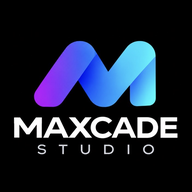
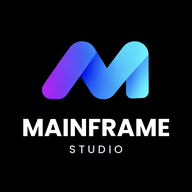
Rebrand to Mainframe
Claude-Session: https://claude.ai/code/session_016a3u7HTdyqHaY1toE3JYmD

diff --git a/index.html b/index.html
@@ -9,10 +9,10 @@
 <link rel="manifest" href="/manifest.json">
 <meta name="apple-mobile-web-app-capable" content="yes">
 <meta name="mobile-web-app-capable" content="yes">
-<meta name="apple-mobile-web-app-title" content="Maxcade">
+<meta name="apple-mobile-web-app-title" content="Mainframe">
 <meta name="theme-color" content="#ffffff">
-<meta name="description" content="Maxcade Games is an independent studio making free games and apps for the web.">
-<title>Maxcade Games</title>
+<meta name="description" content="Mainframe is an independent studio making free games and apps for the web.">
+<title>Mainframe</title>
 <link href="https://fonts.googleapis.com/css2?family=Inter:wght@400;500;600;700;800&display=swap" rel="stylesheet">
 <style>
 *{box-sizing:border-box;margin:0;padding:0}
@@ -197,7 +197,7 @@ footer{padding:64px 0 48px;border-top:1px solid var(--line)}
 <body>
 
 <nav id="nav"><div class="wrap">
-  <a href="#top" class="brand"><svg viewBox="0 0 26 26"><rect width="26" height="26" rx="7" fill="#111"/><path d="M7 18V8l6 6 6-6v10" stroke="#fff" stroke-width="2.2" fill="none" stroke-linecap="round" stroke-linejoin="round"/></svg>Maxcade Games</a>
+  <a href="#top" class="brand"><svg viewBox="0 0 26 26"><rect width="26" height="26" rx="7" fill="#111"/><path d="M7 18V8l6 6 6-6v10" stroke="#fff" stroke-width="2.2" fill="none" stroke-linecap="round" stroke-linejoin="round"/></svg>Mainframe</a>
   <div class="menu"><a href="#games">Games</a><a href="#studio">Studio</a><a href="#careers">Careers</a></div>
   <a class="btn btn-dark nav-cta" style="height:38px;padding:0 18px;font-size:14px" href="https://maxaboiinyc5-wq.github.io/game-crate/">Play Game Crate</a>
   <button class="burger" id="burger" aria-label="Menu"><span></span></button>
@@ -210,7 +210,7 @@ footer{padding:64px 0 48px;border-top:1px solid var(--line)}
 <header class="wrap hero" id="top">
   <div class="kicker rv">Independent game studio</div>
   <h1 class="rv">We make games<br><span>and apps</span><br>for the web.</h1>
-  <p class="rv">Maxcade Games is a small indie studio building free things you can play and use right in your browser, on any phone or computer.</p>
+  <p class="rv">Mainframe is a small indie studio building free things you can play and use right in your browser, on any phone or computer.</p>
   <div class="row rv">
     <a class="btn btn-dark" href="#games">Explore our work</a>
     <a class="btn btn-light" href="#studio">About the studio</a>
@@ -225,7 +225,7 @@ footer{padding:64px 0 48px;border-top:1px solid var(--line)}
 <section class="alt" id="games"><div class="wrap">
   <div class="shead rv">
     <div><div class="kicker">Flagship</div><h2>Game Crate</h2></div>
-    <p>Our game console. A whole library of Maxcade games on one cartridge shelf.</p>
+    <p>Our game console. A whole library of Mainframe games on one cartridge shelf.</p>
   </div>
   <div class="flag rv">
     <div class="art" id="flag-art"></div>
@@ -238,7 +238,7 @@ footer{padding:64px 0 48px;border-top:1px solid var(--line)}
   </div>
 
   <div class="shead rv" style="margin-top:96px">
-    <div><div class="kicker">Catalog</div><h2>More from Maxcade</h2></div>
+    <div><div class="kicker">Catalog</div><h2>More from Mainframe</h2></div>
     <div class="tabs" id="tabs"></div>
   </div>
   <div class="grid" id="grid"></div>
@@ -248,7 +248,7 @@ footer{padding:64px 0 48px;border-top:1px solid var(--line)}
   <div class="studio">
     <div class="rv">
       <div class="kicker">The studio</div>
-      <p class="big">Maxcade Games started with one idea: games should be fun first. <span>No downloads, no paywalls, no waiting. Every project is playtested until it feels right.</span></p>
+      <p class="big">Mainframe started with one idea: games should be fun first. <span>No downloads, no paywalls, no waiting. Every project is playtested until it feels right.</span></p>
     </div>
     <div class="values rv">
       <div class="val"><div class="n">01</div><h4>Fun comes first</h4><p>If it isn't fun to play, it doesn't ship.</p></div>
@@ -260,7 +260,7 @@ footer{padding:64px 0 48px;border-top:1px solid var(--line)}
 
   <div class="shead rv" style="margin-top:96px">
     <div><div class="kicker">People</div><h2>Leadership</h2></div>
-    <p>The leadership behind every Maxcade title.</p>
+    <p>The leadership behind every Mainframe title.</p>
   </div>
   <div class="team">
     <div class="person rv"><div class="ava" style="background:#111"><svg viewBox="0 0 24 24" width="24" height="24" fill="none" stroke="#fff" stroke-width="2" stroke-linecap="round" stroke-linejoin="round"><circle cx="12" cy="12" r="9"/><path d="M15.5 8.5l-2 5-5 2 2-5z"/></svg></div><h4>Founder &amp; President</h4><div class="role">Executive Leadership</div><p>Sets the direction of the studio and leads quality assurance. Every release is reviewed and approved before launch.</p></div>
@@ -274,7 +274,7 @@ footer{padding:64px 0 48px;border-top:1px solid var(--line)}
     <div>
       <div class="kicker" style="color:#8b8bff">Careers</div>
       <h2>Make games<br>with us.</h2>
-      <p>Maxcade Games is growing. We are looking for talented people who want to help build the next generation of browser games.</p>
+      <p>Mainframe is growing. We are looking for talented people who want to help build the next generation of browser games.</p>
     </div>
   </div>
 </div></section>
@@ -282,13 +282,13 @@ footer{padding:64px 0 48px;border-top:1px solid var(--line)}
 <footer><div class="wrap">
   <div class="fgrid">
     <div>
-      <a href="#top" class="brand"><svg viewBox="0 0 26 26" width="26" height="26"><rect width="26" height="26" rx="7" fill="#111"/><path d="M7 18V8l6 6 6-6v10" stroke="#fff" stroke-width="2.2" fill="none" stroke-linecap="round" stroke-linejoin="round"/></svg>Maxcade Games</a>
+      <a href="#top" class="brand"><svg viewBox="0 0 26 26" width="26" height="26"><rect width="26" height="26" rx="7" fill="#111"/><path d="M7 18V8l6 6 6-6v10" stroke="#fff" stroke-width="2.2" fill="none" stroke-linecap="round" stroke-linejoin="round"/></svg>Mainframe</a>
       <p>Free games and apps for the web.</p>
     </div>
     <div><h5>Explore</h5><ul><li><a href="https://maxaboiinyc5-wq.github.io/game-crate/">Game Crate</a></li><li><a href="#games">Catalog</a></li><li></li></ul></div>
     <div><h5>Studio</h5><ul><li><a href="#studio">About</a></li><li><a href="#studio">Leadership</a></li><li><a href="#careers">Careers</a></li></ul></div>
   </div>
-  <div class="legal"><span>© 2026 Maxcade Games. All rights reserved.</span><span>maxcadestudios.github.io</span></div>
+  <div class="legal"><span>© 2026 Mainframe. All rights reserved.</span><span>maxcadestudios.github.io</span></div>
 </div></footer>
 
 <div class="modal" id="modal"><div class="sheet" style="position:relative">

diff --git a/target-blast/index.html b/target-blast/index.html
@@ -149,7 +149,7 @@ const GC=[
 ['💻','GAME CRATE','works on phones AND computers now.'],
 ['⏳','COMING SOON to GAME CRATE','new games are on the way. check the Coming soon shelf.']
 ];
-const GCF=['100% free','new games added all the time','works on phone + computer','no download needed','made by Maxcade developers','search + filters','NEW and recently updated tags','home screen app ready'];
+const GCF=['100% free','new games added all the time','works on phone + computer','no download needed','made by Mainframe developers','search + filters','NEW and recently updated tags','home screen app ready'];
 const GCR=['"best crate ever" - a goat','"i played for 6 hours" - Kyle','"better than a PS5 (it is free)" - Dave','"my brother wont stop playing" - Max','"10/10 crate" - Sue','"the menu music slaps" - Ray'];
 const AFEAT=['100% real (not real)','approved by 3 ducks','works sometimes','now in beige','comes with a sticker','no batteries needed (it needs batteries)','dishwasher scared','made in a garage','faster than a snail','smells like Tuesday','glow in the dark (only in daylight)','waterproof-ish','scientists hate it','your mom will say no','includes free air','limited edition (we made 9 million)'];
 const AREV=['"my dog likes it" - Dave','"it arrived. thats all." - Sue','"i bought 40" - Kyle','"5 stars, it exists" - Bob','"my grandma cried" - Tim','"i dont know why i bought this" - Jen','"better than nothing" - Ray','"it ate my homework" - Max','"10/10 would get scammed again" - Lou'];
@@ -179,7 +179,7 @@ function showSite(a,after){const gc=!!a[5];let cart=0;
  '<h2>✨ FEATURES</h2>'+feats.map(f=>'<div class="ft">✅ '+f+'</div>').join('')+
  '<h2>⭐ REVIEWS</h2>'+revs.map(r=>'<div class="rv"><div>⭐⭐⭐⭐⭐</div>'+r+'</div>').join('')+
  '<h2>❓ FAQ</h2>'+faq.map(q=>'<div class="ft"><b>'+q[0]+'</b><br>'+q[1]+'</div>').join('')+
- '<div class="foot">© 2026 '+(gc?'Maxcade developers':'Imaginary Inc.')+' · '+url+'<br>'+(gc?'':'this website is not real. nothing here is real.')+'</div></div>';
+ '<div class="foot">© 2026 '+(gc?'Mainframe developers':'Imaginary Inc.')+' · '+url+'<br>'+(gc?'':'this website is not real. nothing here is real.')+'</div></div>';
  const close=()=>{s.style.display='none';s.innerHTML='';after()};
  document.getElementById('sb').onclick=close;document.getElementById('sx').onclick=close;
  document.getElementById('buy').onclick=e=>{if(gc){e.target.textContent='🎮 go to '+url;return}cart++;document.getElementById('cc').textContent=cart;e.target.textContent='✅ added! ('+cart+' in imaginary cart)'}}
@@ -345,8 +345,8 @@ function realEnd(){running=false;ui.className='';pb.style.display='none';documen
  ui.style.display='flex';const acc=shots?Math.round(hits/shots*100):0;const rs=MD.endless?2:1;const rank=score>=600*rs?'🥇 GOLD':score>=350*rs?'🥈 SILVER':score>=150*rs?'🥉 BRONZE':'🪵 ROOKIE';
  ui.innerHTML='<h1>'+(MD.endless?'GAME OVER!':'TIME\'S UP!')+'</h1><p>'+MD.n+'</p><p style="font-size:48px;font-weight:900;color:#f1c40f;margin:10px">'+score+'</p><p style="font-size:26px;font-weight:800">'+rank+'</p><p>🎯 accuracy: '+acc+'% ('+hits+'/'+shots+')</p><p>'+(nb?'🏆 NEW BEST!':'best: '+best)+'</p><button onclick="start()">PLAY AGAIN</button><button style="background:#555;font-size:22px;padding:12px 40px;margin:0" onclick="home()">🏠 MAIN MENU</button><div class="ban" style="position:relative;bottom:auto" onclick="fakeTap(this)">'+banHTML()+'</div>'}
 </script>
-<!-- Maxcade home tab -->
-<a id="mx-home" href="/#games" aria-label="Back to Maxcade Games"><svg viewBox="0 0 24 24" width="18" height="18" fill="none" stroke="#fff" stroke-width="2.4" stroke-linecap="round" stroke-linejoin="round"><path d="M15 5l-7 7 7 7"/></svg><span>Home</span></a>
+<!-- Mainframe home tab -->
+<a id="mx-home" href="/#games" aria-label="Back to Mainframe"><svg viewBox="0 0 24 24" width="18" height="18" fill="none" stroke="#fff" stroke-width="2.4" stroke-linecap="round" stroke-linejoin="round"><path d="M15 5l-7 7 7 7"/></svg><span>Home</span></a>
 <style>
 #mx-home{position:fixed;left:0;top:50%;transform:translateY(-50%);z-index:2147483647;display:flex;flex-direction:column;align-items:center;gap:4px;padding:12px 7px 12px 5px;background:rgba(17,17,17,.82);backdrop-filter:blur(8px);-webkit-backdrop-filter:blur(8px);border:1px solid rgba(255,255,255,.14);border-left:0;border-radius:0 12px 12px 0;color:#fff;text-decoration:none;font:600 10px/1 -apple-system,BlinkMacSystemFont,Inter,sans-serif;letter-spacing:.04em;-webkit-tap-highlight-color:transparent;user-select:none}
 #mx-home span{writing-mode:vertical-rl;transform:rotate(180deg)}

diff --git a/adcrate/index.html b/adcrate/index.html
@@ -169,8 +169,8 @@ setInterval(()=>{let gain=0;S.ads.forEach(a=>{if(!a.on)return;const b=Math.min(a
  gain*=boost();lastGain=lastGain*.7+gain*.3;if(gain){S.money+=gain;S.hist[6]+=gain;save();if(cur=='ads'||cur=='earn'||cur=='pay')render();else $('hm').textContent=fm(S.money)}},1000);
 render();
 </script>
-<!-- Maxcade home tab -->
-<a id="mx-home" href="/#games" aria-label="Back to Maxcade Games"><svg viewBox="0 0 24 24" width="18" height="18" fill="none" stroke="#fff" stroke-width="2.4" stroke-linecap="round" stroke-linejoin="round"><path d="M15 5l-7 7 7 7"/></svg><span>Home</span></a>
+<!-- Mainframe home tab -->
+<a id="mx-home" href="/#games" aria-label="Back to Mainframe"><svg viewBox="0 0 24 24" width="18" height="18" fill="none" stroke="#fff" stroke-width="2.4" stroke-linecap="round" stroke-linejoin="round"><path d="M15 5l-7 7 7 7"/></svg><span>Home</span></a>
 <style>
 #mx-home{position:fixed;left:0;top:50%;transform:translateY(-50%);z-index:2147483647;display:flex;flex-direction:column;align-items:center;gap:4px;padding:12px 7px 12px 5px;background:rgba(17,17,17,.82);backdrop-filter:blur(8px);-webkit-backdrop-filter:blur(8px);border:1px solid rgba(255,255,255,.14);border-left:0;border-radius:0 12px 12px 0;color:#fff;text-decoration:none;font:600 10px/1 -apple-system,BlinkMacSystemFont,Inter,sans-serif;letter-spacing:.04em;-webkit-tap-highlight-color:transparent;user-select:none}
 #mx-home span{writing-mode:vertical-rl;transform:rotate(180deg)}

diff --git a/fall-back/index.html b/fall-back/index.html
@@ -887,8 +887,8 @@ $('cont').onclick=()=>{beep(440,.05);night=save.reached||save.best||1;startNight
 $('titleShop').onclick=openShop;$('endShop').onclick=openShop;
 </script>
 
-<!-- Maxcade home tab -->
-<a id="mx-home" href="/#games" aria-label="Back to Maxcade Games"><svg viewBox="0 0 24 24" width="18" height="18" fill="none" stroke="#fff" stroke-width="2.4" stroke-linecap="round" stroke-linejoin="round"><path d="M15 5l-7 7 7 7"/></svg><span>Home</span></a>
+<!-- Mainframe home tab -->
+<a id="mx-home" href="/#games" aria-label="Back to Mainframe"><svg viewBox="0 0 24 24" width="18" height="18" fill="none" stroke="#fff" stroke-width="2.4" stroke-linecap="round" stroke-linejoin="round"><path d="M15 5l-7 7 7 7"/></svg><span>Home</span></a>
 <style>
 #mx-home{position:fixed;left:0;top:50%;transform:translateY(-50%);z-index:2147483647;display:flex;flex-direction:column;align-items:center;gap:4px;padding:12px 7px 12px 5px;background:rgba(17,17,17,.82);backdrop-filter:blur(8px);-webkit-backdrop-filter:blur(8px);border:1px solid rgba(255,255,255,.14);border-left:0;border-radius:0 12px 12px 0;color:#fff;text-decoration:none;font:600 10px/1 -apple-system,BlinkMacSystemFont,Inter,sans-serif;letter-spacing:.04em;-webkit-tap-highlight-color:transparent;user-select:none}
 #mx-home span{writing-mode:vertical-rl;transform:rotate(180deg)}

diff --git a/tower-brawl/index.html b/tower-brawl/index.html
@@ -516,8 +516,8 @@ requestAnimationFrame(loop);
 })();
 </script>
 
-<!-- Maxcade home tab -->
-<a id="mx-home" href="/#games" aria-label="Back to Maxcade Games"><svg viewBox="0 0 24 24" width="18" height="18" fill="none" stroke="#fff" stroke-width="2.4" stroke-linecap="round" stroke-linejoin="round"><path d="M15 5l-7 7 7 7"/></svg><span>Home</span></a>
+<!-- Mainframe home tab -->
+<a id="mx-home" href="/#games" aria-label="Back to Mainframe"><svg viewBox="0 0 24 24" width="18" height="18" fill="none" stroke="#fff" stroke-width="2.4" stroke-linecap="round" stroke-linejoin="round"><path d="M15 5l-7 7 7 7"/></svg><span>Home</span></a>
 <style>
 #mx-home{position:fixed;left:0;top:50%;transform:translateY(-50%);z-index:2147483647;display:flex;flex-direction:column;align-items:center;gap:4px;padding:12px 7px 12px 5px;background:rgba(17,17,17,.82);backdrop-filter:blur(8px);-webkit-backdrop-filter:blur(8px);border:1px solid rgba(255,255,255,.14);border-left:0;border-radius:0 12px 12px 0;color:#fff;text-decoration:none;font:600 10px/1 -apple-system,BlinkMacSystemFont,Inter,sans-serif;letter-spacing:.04em;-webkit-tap-highlight-color:transparent;user-select:none}
 #mx-home span{writing-mode:vertical-rl;transform:rotate(180deg)}

diff --git a/README.md b/README.md
@@ -1,3 +1,3 @@
-# Maxcade Games
+# Mainframe
 
-Official website of Maxcade Games.
+Official website of Mainframe Studio.
